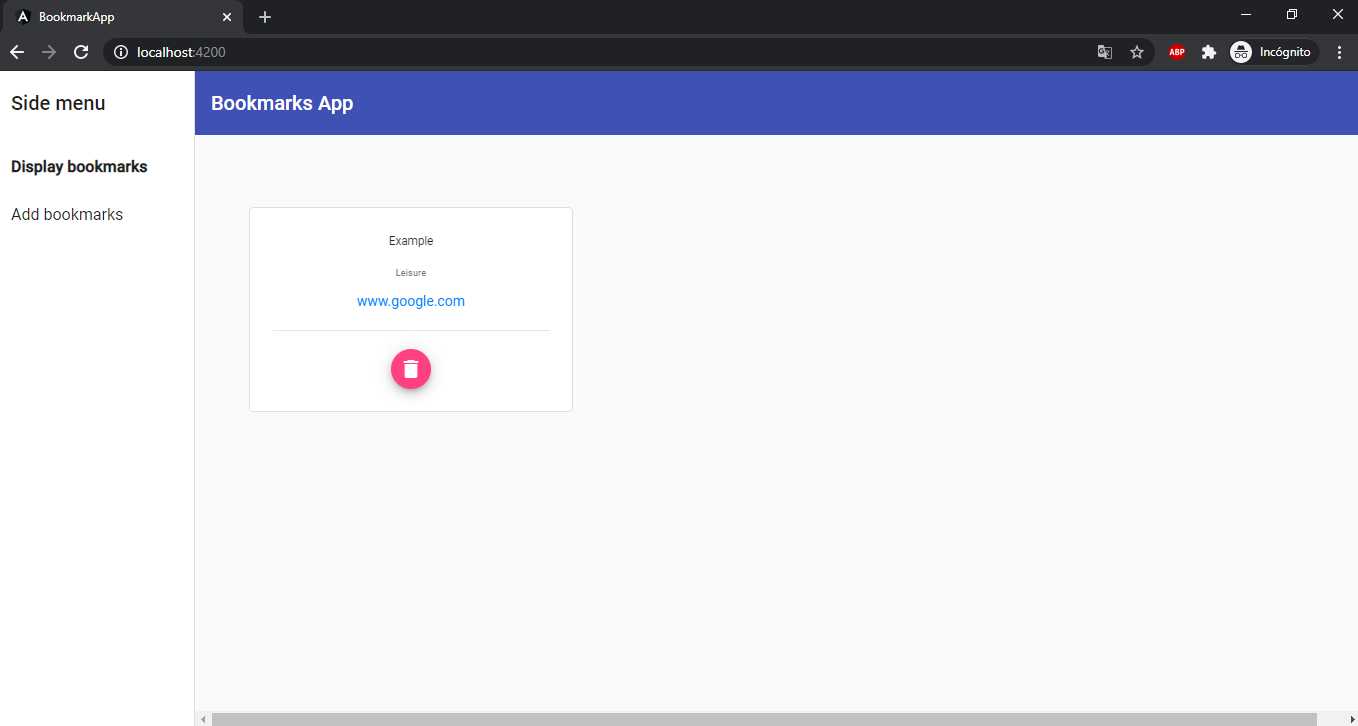
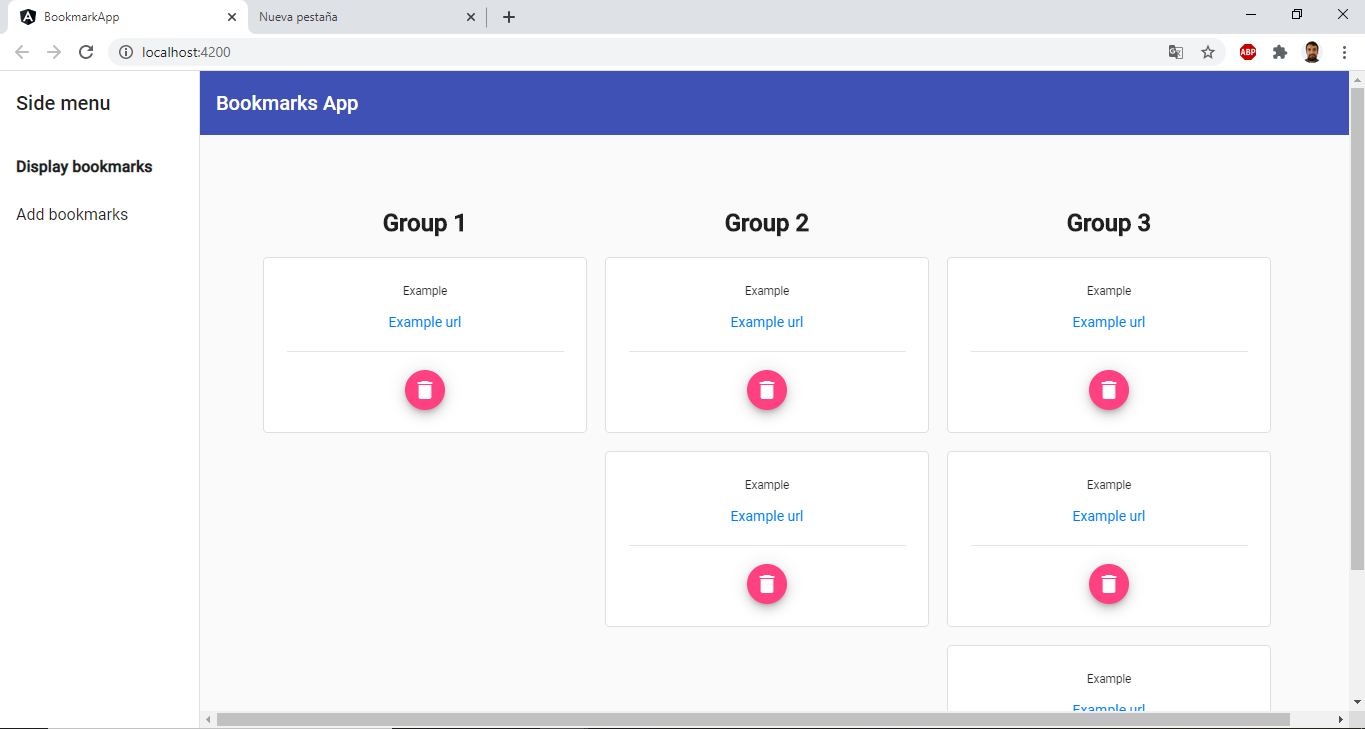
Grouping of bookmarks added

diff --git a/src/app/pages/display/display.component.html b/src/app/pages/display/display.component.html
@@ -1,26 +1,23 @@
 <div class="container m-5">
   <div class="row">
-
-    <div class="card text-center mt-3"
-         *ngFor="let item of bookmarks"
-         style="width: 18rem;">
-      <div class="card-body">
-        <h5 class="card-title">{{item.name}}</h5>
-        <h6 class="card-subtitle mb-2 text-muted">{{item.group}}</h6>
-
-        <a href="#"
-           class="card-link"
-           [href]="item.url">{{item.url}}</a>
-
-        <hr>
-        <button mat-mini-fab
-                (click)="deleteBookmark(item)"
-                color="accent">
-          <mat-icon>delete</mat-icon>
-        </button>
-
+    <div *ngFor="let array of bookmarks">
+      <h1 class="text-center font-weight-bold mt-3">{{array[0].group | titlecase}}</h1>
+      <div class="card text-center mt-3 ml-2 mr-2"
+           *ngFor="let item of array"
+           style="width: 18rem;">
+        <div class="card-body">
+          <h5 class="card-title">{{item.name}}</h5>
+          <a href="#"
+             class="card-link"
+             [href]="item.url">{{item.url}}</a>
+          <hr>
+          <button mat-mini-fab
+                  (click)="deleteBookmark(item)"
+                  color="accent">
+            <mat-icon>delete</mat-icon>
+          </button>
+        </div>
       </div>
-
     </div>
   </div>
 </div>

diff --git a/src/app/pages/display/display.component.ts b/src/app/pages/display/display.component.ts
@@ -18,12 +18,32 @@ export class DisplayComponent {
   showData() {
     this.store.select('bookmarks').subscribe((resp) => {
       if (resp && resp.length > 0) {
-        this.bookmarks = resp.filter((item) => item.name.length > 0);
+        const arrayBookmarks = resp.filter((item) => item.name.length > 0);
+        this.bookmarks = this.groupBy(arrayBookmarks, 'group');
       }
     });
   }
 
   deleteBookmark(bookmark: BookMark) {
     this.store.dispatch(new Actions.DeleteBookmark(bookmark));
+  }
+
+  groupBy(collection: BookMark[], property: string) {
+    let i = 0;
+    let val;
+    let index;
+    const values = [];
+    const result = [];
+    for (; i < collection.length; i++) {
+      val = collection[i][property];
+      index = values.indexOf(val);
+      if (index > -1) {
+        result[index].push(collection[i]);
+      } else {
+        values.push(val);
+        result.push([collection[i]]);
+      }
+    }
+    return result;
   }
 }
